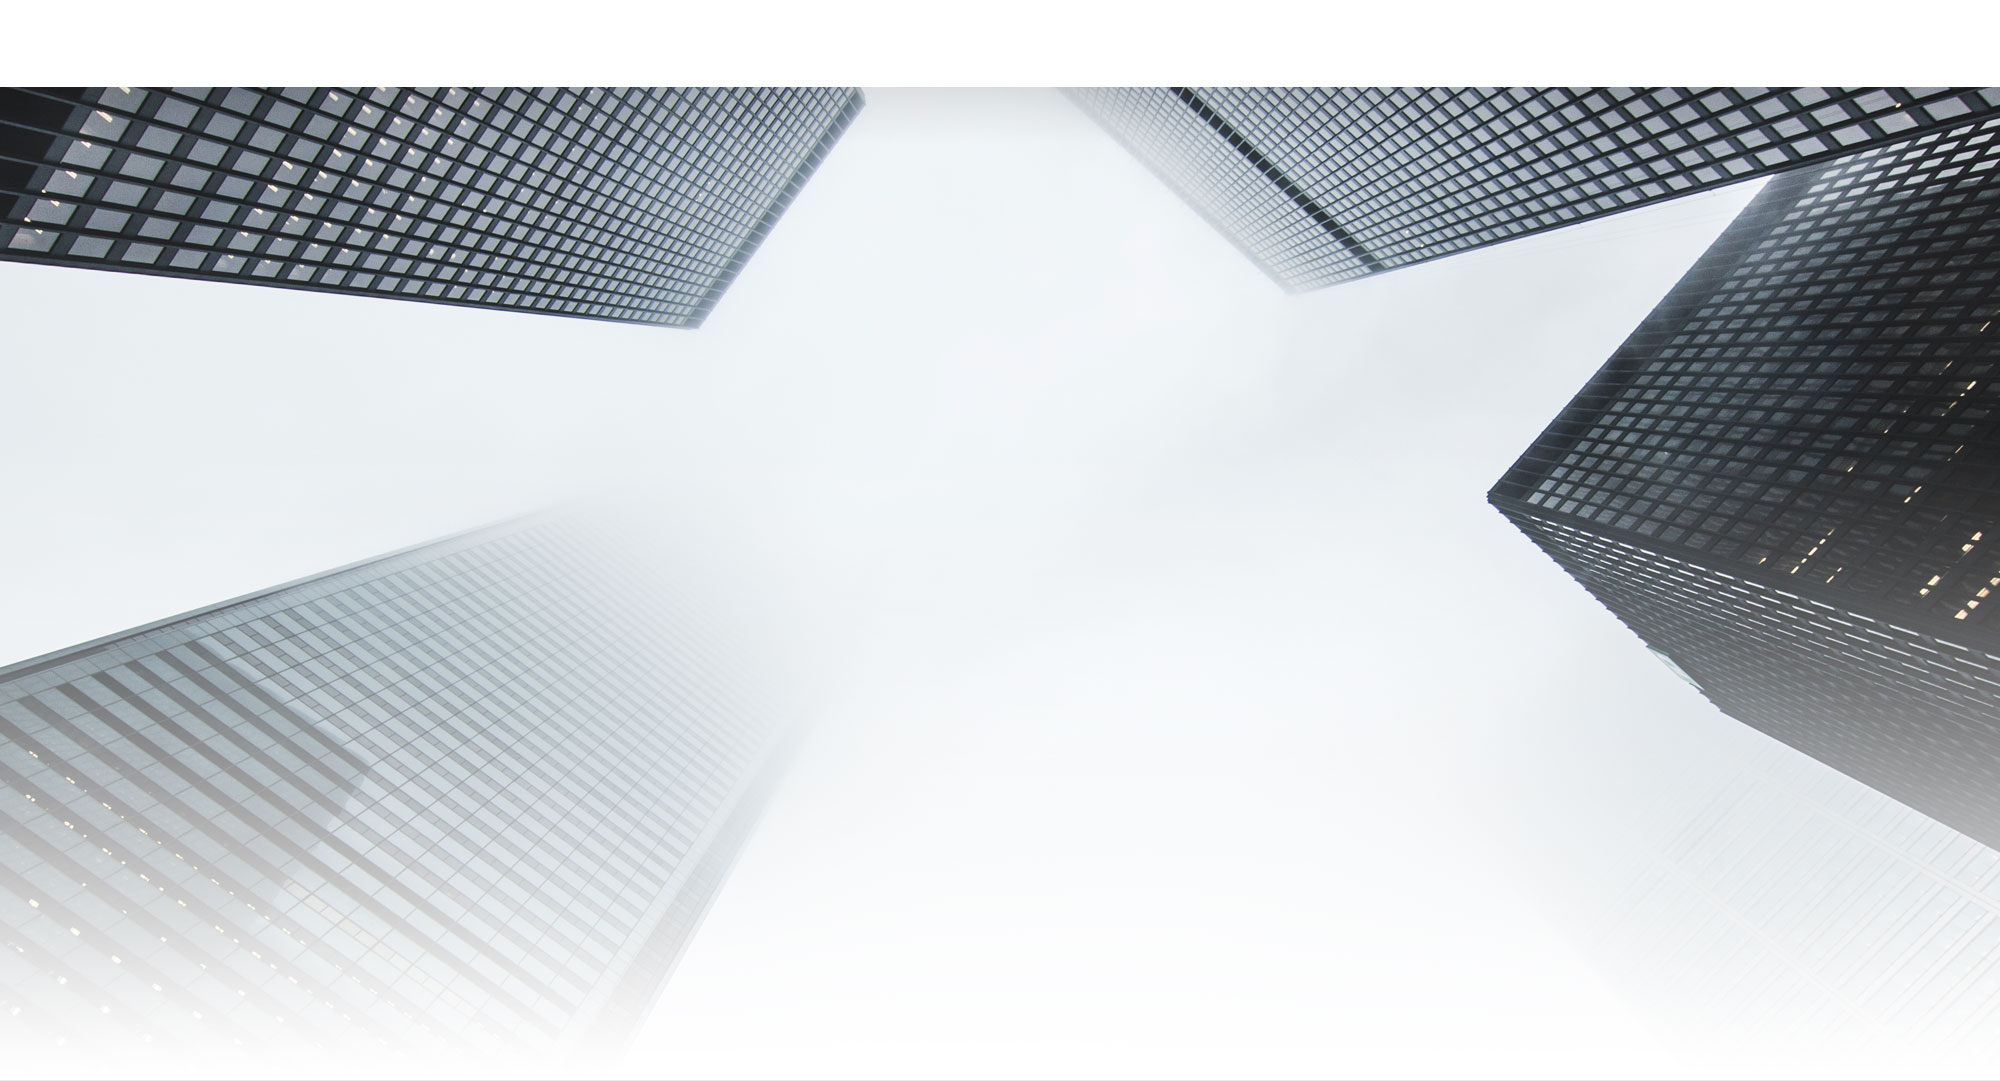
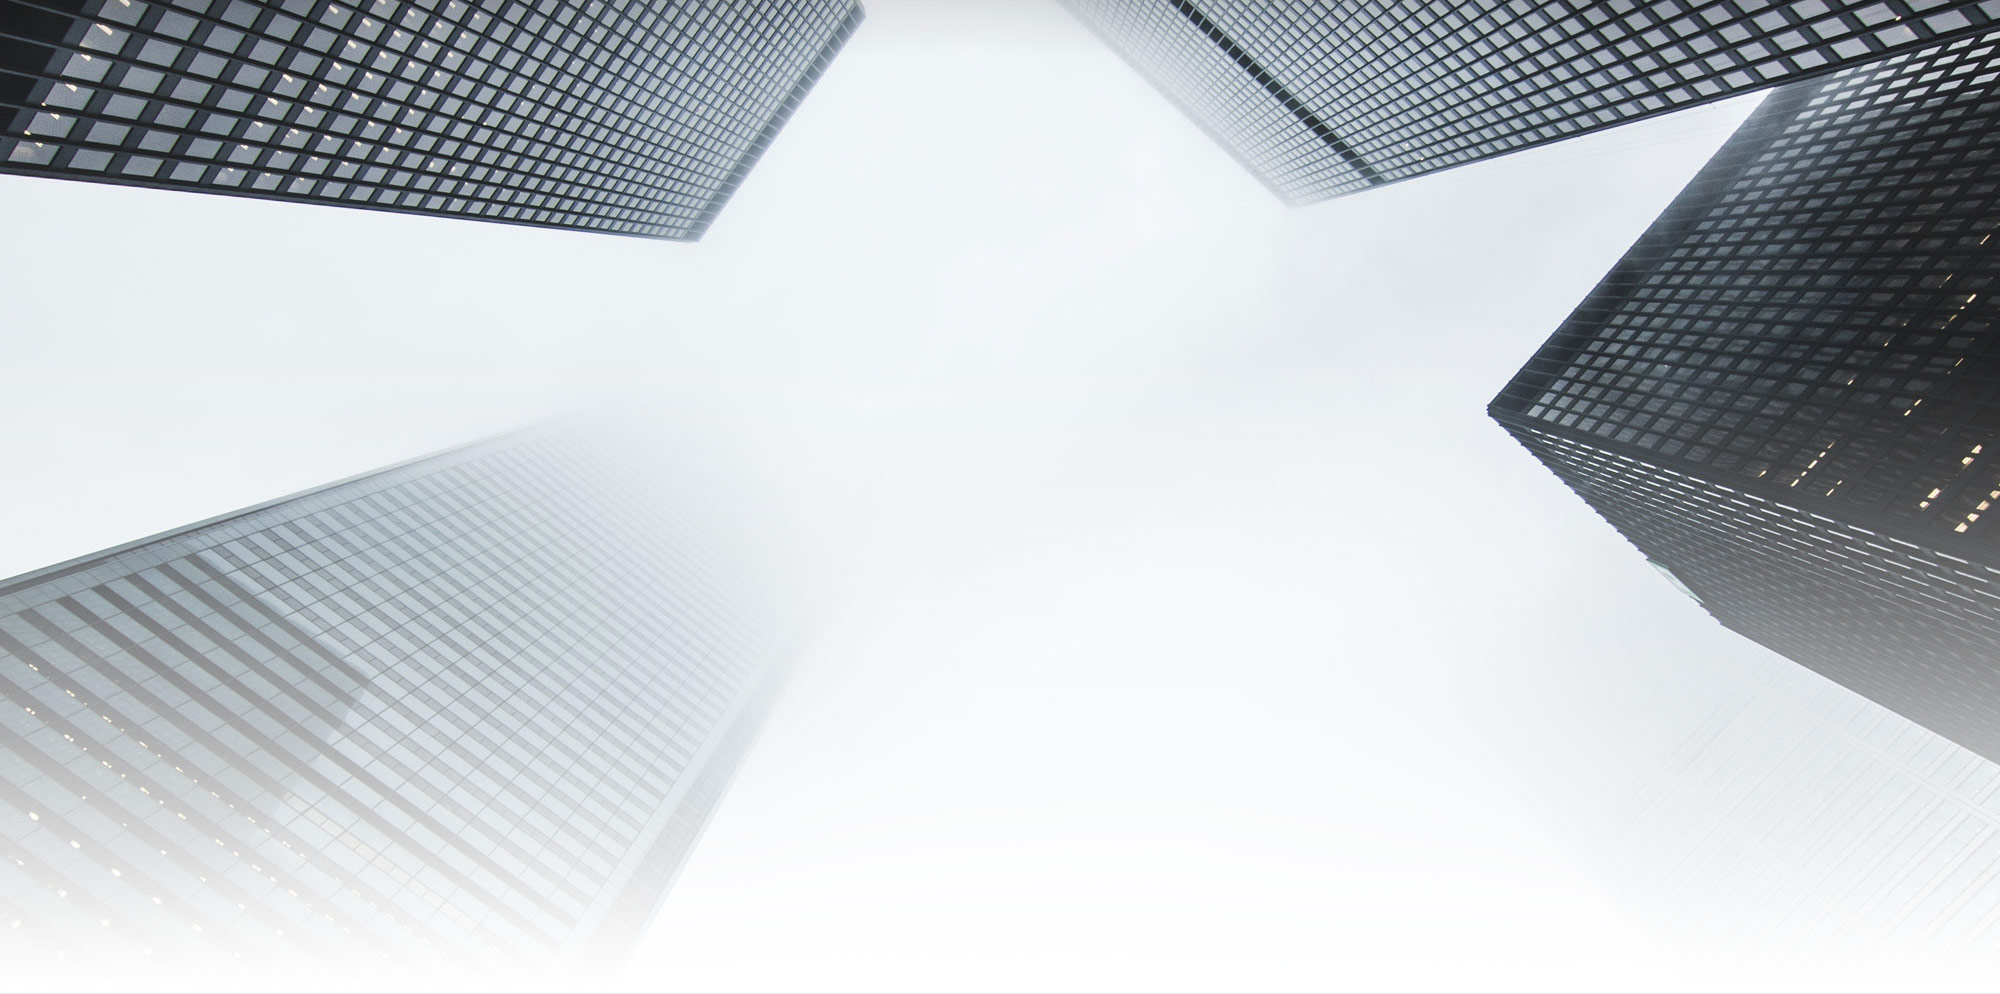
правки хередера

diff --git a/landing/css/styles.css b/landing/css/styles.css
@@ -255,9 +255,10 @@ header {
     background-color: #dbdbdb; }
 
 .pageheader {
-  min-height: 100vh;
+  height: 100vh;
+  min-height: 480px;
   padding-bottom: 102px;
-  background: url("../img/bg_1.jpg") no-repeat fixed 50% -88px;
+  background: url("../img/bg_1.jpg") no-repeat fixed 50% 0;
   background-size: cover; }
 
 .pageheader__content {
@@ -1838,11 +1839,10 @@ footer {
     padding: 40px 20px; }
 
   .roadmap__img {
-    width: 250px;
-    height: 140px;
-    bottom: 20px;
-    position: relative;
-    right: 0; }
+    position: static;
+    width: 390px;
+    height: 210px;
+    margin: 0 auto; }
 
   .community__links span {
     font-size: 30px;
@@ -1997,6 +1997,10 @@ footer {
       font-size: 8px; } }
 @media (max-width: 499px) {
   .miners__list li {
-    width: 100%; } }
+    width: 100%; }
+
+  .roadmap__img {
+    width: 210px;
+    height: 120px; } }
 
 /*# sourceMappingURL=styles.css.map */

diff --git a/landing/css/styles.scss b/landing/css/styles.scss
@@ -336,9 +336,10 @@ header {
   }
 }
 .pageheader {
-  min-height: 100vh;
+  height: 100vh;
+  min-height: 480px;
   padding-bottom: 102px;
-  background: url("../img/bg_1.jpg") no-repeat fixed 50% -88px;
+  background: url("../img/bg_1.jpg") no-repeat fixed 50% 0;
   background-size: cover;
 }
 .pageheader__content {
@@ -2151,11 +2152,10 @@ footer {
     padding: 40px 20px;
   }
   .roadmap__img {
-    width: 250px;
-    height: 140px;
-    bottom: 20px;
-    position: relative;
-    right: 0;
+    position: static;
+    width: 390px;
+    height: 210px;
+    margin: 0 auto;
   }
   .community__links {
     span {
@@ -2345,6 +2345,10 @@ footer {
 @media (max-width: 499px) {
   .miners__list li {
     width: 100%;
+  }
+  .roadmap__img {
+    width: 210px;
+    height: 120px;
   }
 }
 
